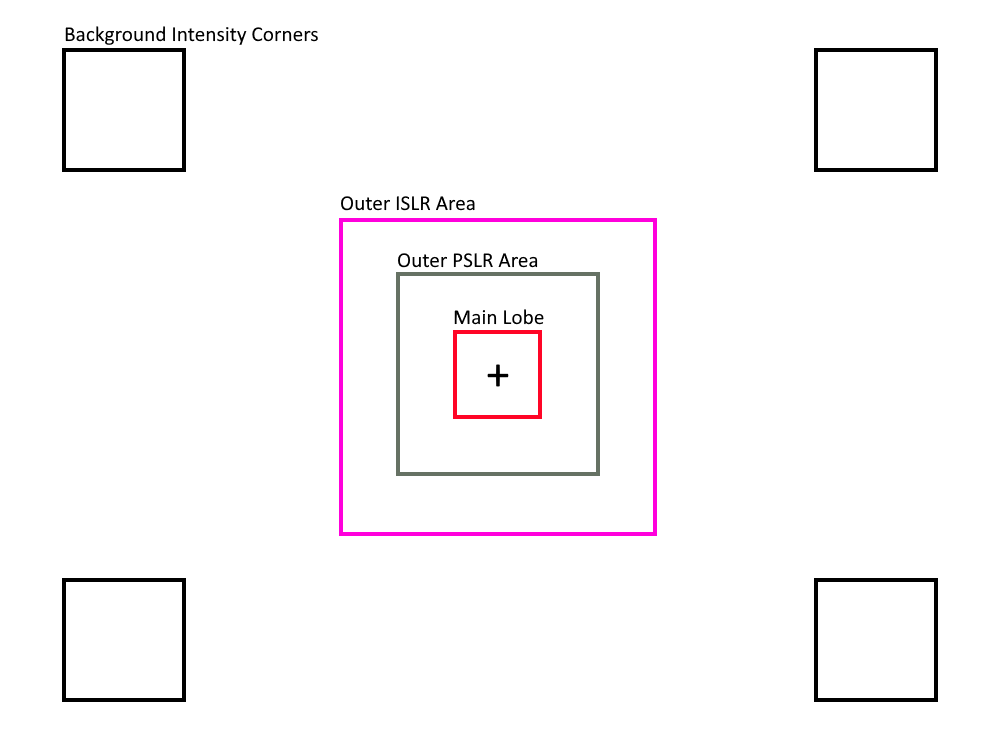
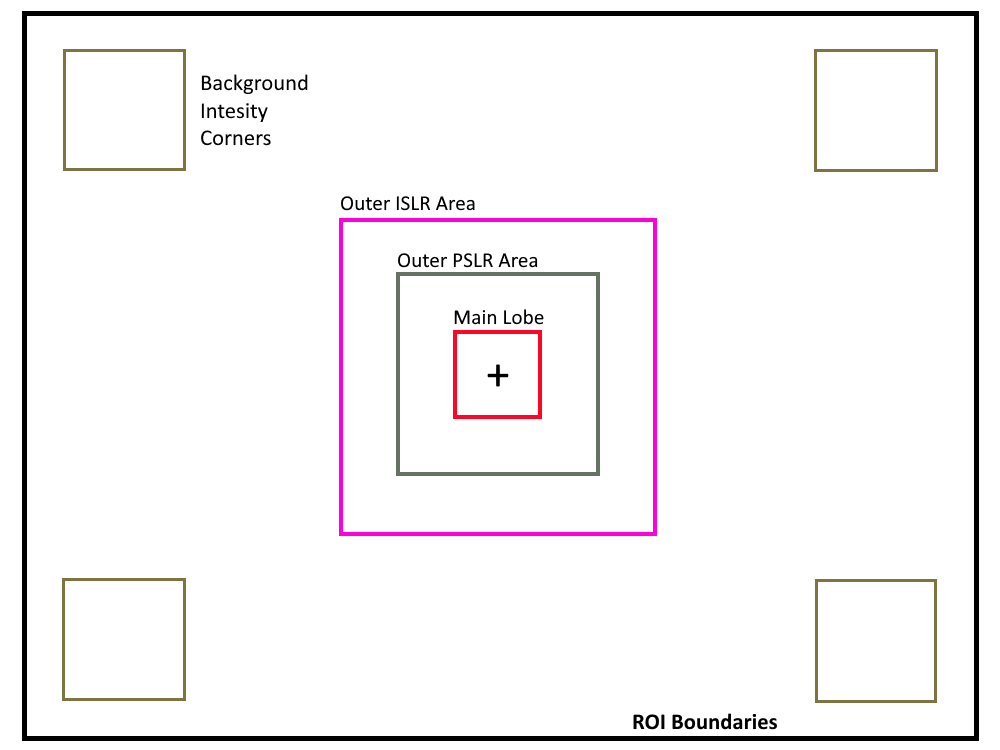
quality, updating point target analysis documentation

Changed region(s): [[0.0, 0.0, 0.992, 1.0], [0.062, 0.7667, 0.186, 0.9507]]

diff --git a/docs/documentation/quality/analyses/point-target/algo.md b/docs/documentation/quality/analyses/point-target/algo.md
@@ -87,11 +87,6 @@ to the range and azimuth spectra.
 
 The side lobe levels are evaluated from specific portions of the SAR image, as shown in the picture below.
 
-<figure markdown="span">
-    ![Masking](../../../../assets/images/q/masking.png){ width="850" }
-    <figcaption>Masking of the ROI around the peak.</figcaption>
-</figure>
-
 <div class="grid cards" markdown>
 
 -   :lucide-radio:{ .lg .middle } **Peak-to-Side-Lobe-Ratio (PSLR)**
@@ -169,12 +164,20 @@ within the main lobe of the focused point target and the removal of the backgrou
 
 The input data shall be provided in *beta-nought* with no incidence angle compensation applied.
 
-The RCS estimation algorithm is composed by the following steps:
+Two algorithms are available for estimating the point target RCS: 
+
+- **boxes** (default)
+- **cross masking**
+
+The two algorithms share the same RCS computation procedure and differ only in the estimation of the background intensity (clutter).
+
+### Common RCS estimation procedure
+
+Both algorithms perform the following steps:
 
 1. Image conversion to intensity by taking the square of the absolute value of each pixel.
 
-2. Background intensity (Clutter) estimation by averaging the pixel intensities over four square areas of M x M pixels located close to each
-   corner around the target in such a way that they include only clutter intensity.
+2. Estimate the background intensity (clutter) using one of the available methods (see below).
 
 3. Background intensity removal from image by subtraction.
 
@@ -187,6 +190,27 @@ Computing the difference between the measured RCS of a well-characterized known 
 the absolute radiometric calibration.
 
 The channel distortion can also be measured as the difference in a corner reflector RCS between two polarization.
+
+### Background estimation: boxes algorithm
+
+<figure markdown="span">
+    ![Masking](../../../../assets/images/q/masking.png){ width="850" }
+    <figcaption>Masking of the ROI around the peak.</figcaption>
+</figure>
+
+The **boxes** algorithm estimates the background intensity by averaging the pixel intensities over four square regions of size M × M pixels. These regions are positioned near the four corners of the region of interest (ROI), sufficiently far from the target main lobe so that they contain only clutter samples.
+
+### Background estimation: cross masking algorithm
+
+<figure markdown="span">
+    ![Quality](../../../../assets/images/q/cross_masking_rcs.png){ width="850" }
+    <figcaption>Cross masking</figcaption>
+</figure>
+
+The **cross masking** algorithm estimates the background intensity from a small rectangular ROI centered on the IRF main lobe, rather than from the larger ROI used by the boxes algorithm. Within this ROI, a cross-shaped mask and a central rectangular mask remove the target response, and the background intensity is computed as the mean of the remaining (unmasked) pixels.
+
+!!! Tip
+    This alternative algorithm can be beneficial when the clutter around the point target is not homogeneous and the regions selected by the **boxes** algorithm may include nearby scatterers. The use of a smaller ROI around the target, together with IRF masking, enables a more representative local estimation of the background intensity.
 
 ## Point Target Localization
 
